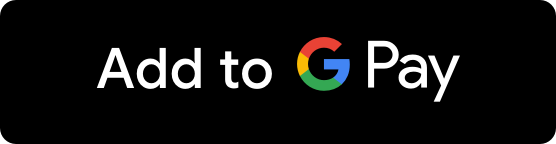
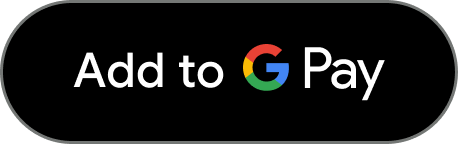
Update add to google pay button

Changed region(s): [[0.0, 0.0, 1.0, 1.0], [0.5197, 0.25, 0.8559, 0.7222], [0.1528, 0.3333, 0.4891, 0.6389]]

diff --git a/example/src/screens/GooglePayScreen.tsx b/example/src/screens/GooglePayScreen.tsx
@@ -188,7 +188,7 @@ export default function GooglePayScreen() {
       {showAddToWalletButton && (
         <AddToWalletButton
           androidAssetSource={Image.resolveAssetSource(AddToGooglePayPNG)}
-          style={styles.payButton}
+          style={styles.addToWalletButton}
           cardDetails={{
             name: cardDetails?.cardholder?.name,
             primaryAccountIdentifier:
@@ -218,11 +218,16 @@ const styles = StyleSheet.create({
   },
   payButton: {
     marginTop: 30,
-    width: 152,
-    height: 40,
+    width: 182,
+    height: 48,
   },
   standardButton: {
     width: 90,
     height: 40,
+  },
+  addToWalletButton: {
+    marginTop: 30,
+    width: 190,
+    height: 60,
   },
 });

diff --git a/android/src/main/java/com/reactnativestripesdk/pushprovisioning/AddToWalletButtonView.kt b/android/src/main/java/com/reactnativestripesdk/pushprovisioning/AddToWalletButtonView.kt
@@ -76,7 +76,6 @@ class AddToWalletButtonView(private val context: ThemedReactContext, private val
       val scale = sourceMap?.getDouble("scale") ?: 1.0
 
       requestManager
-        .asDrawable()
         .load(sourceToLoad)
         .addListener(object : RequestListener<Drawable> {
           override fun onLoadFailed(e: GlideException?, model: Any?, target: Target<Drawable>?, isFirstResource: Boolean): Boolean {
